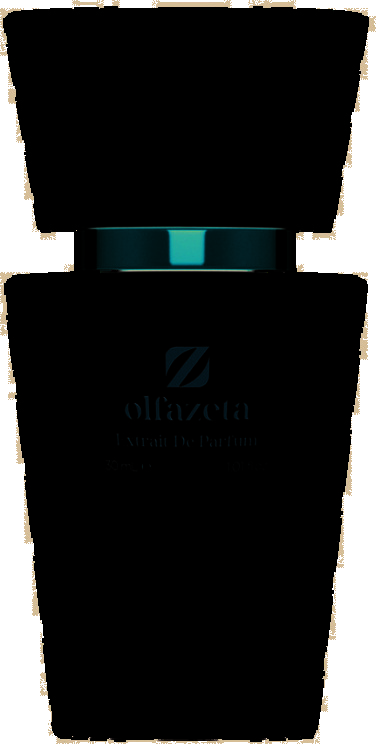
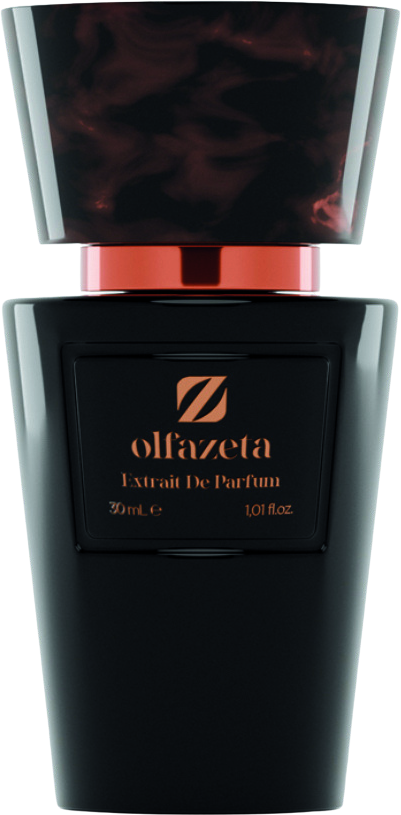
fix: Korrekte Olfazeta-Flacons aus PDF mit richtigen Farben
CMYK-Bilder aus dem PDF wurden falsch konvertiert (pink→teal, tortoiseshell→schwarz).
Lösung: CMYK-Negate + sRGB-Konvertierung + Alpha-Masken-Compositing.

- Light 70ml/30ml: Weiss mit rosa Marmor-Deckel (wie im PDF)
- Dark 70ml/30ml: Schwarz mit Schildpatt-Deckel (wie im PDF)
- 5 Luxury-Varianten: Schwarz, Gold, Burgundy, Teal, Grau
- Travel 15ml: Goldener Spray-Flakon
- getFlaconImage() rotiert Luxury-Flacon-Farben basierend auf Parfum-Nummer

diff --git a/src/data/catalog.ts b/src/data/catalog.ts
@@ -118,11 +118,25 @@ export const categoryInfo: Record<PerfumeCategory, CategoryInfo> = {
   },
 };
 
-export function getFlaconImage(category: PerfumeCategory, gender: Gender): string {
-  if (category === "luxury") return "/images/catalog/flacon-luxury-50ml.png";
+const luxuryFlacons = [
+  "/images/catalog/flacon-luxury-50ml.png",
+  "/images/catalog/flacon-luxury-gold.png",
+  "/images/catalog/flacon-luxury-burgundy.png",
+  "/images/catalog/flacon-luxury-teal.png",
+  "/images/catalog/flacon-luxury-grey.png",
+];
+
+export function getFlaconImage(category: PerfumeCategory, gender: Gender, number?: string): string {
+  if (category === "luxury") {
+    const index = number
+      ? parseInt(number, 10) % luxuryFlacons.length
+      : 0;
+    return luxuryFlacons[index];
+  }
   if (gender === "damen") return "/images/catalog/flacon-light-70ml.png";
   if (gender === "herren") return "/images/catalog/flacon-dark-70ml.png";
-  return "/images/catalog/flacon-light-30ml.png";
+  if (gender === "unisex") return "/images/catalog/flacon-light-30ml.png";
+  return "/images/catalog/flacon-dark-30ml.png";
 }
 
 export function getFragranceGradient(notes: string): string {

diff --git a/src/components/catalog/CatalogClient.tsx b/src/components/catalog/CatalogClient.tsx
@@ -37,7 +37,7 @@ function formatPrice(price: number): string {
 
 function PerfumeCard({ perfume }: { perfume: Perfume }): React.ReactElement {
   const gradient = getFragranceGradient(perfume.fragranceNotes);
-  const flaconImage = getFlaconImage(perfume.category, perfume.gender);
+  const flaconImage = getFlaconImage(perfume.category, perfume.gender, perfume.number);
   const isMythologik = perfume.category === "mythologik";
   const isLuxury = perfume.category === "luxury";
 
